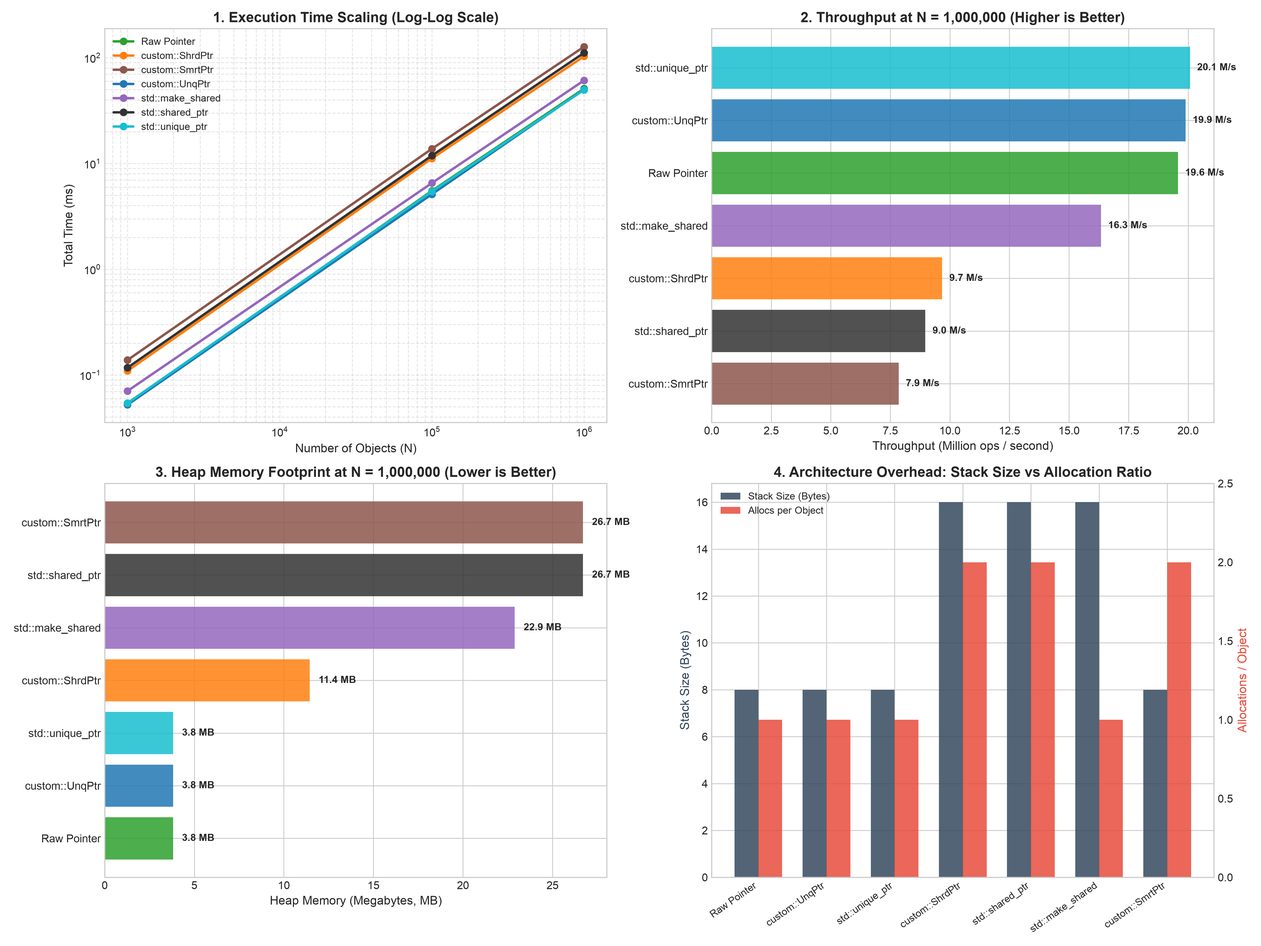
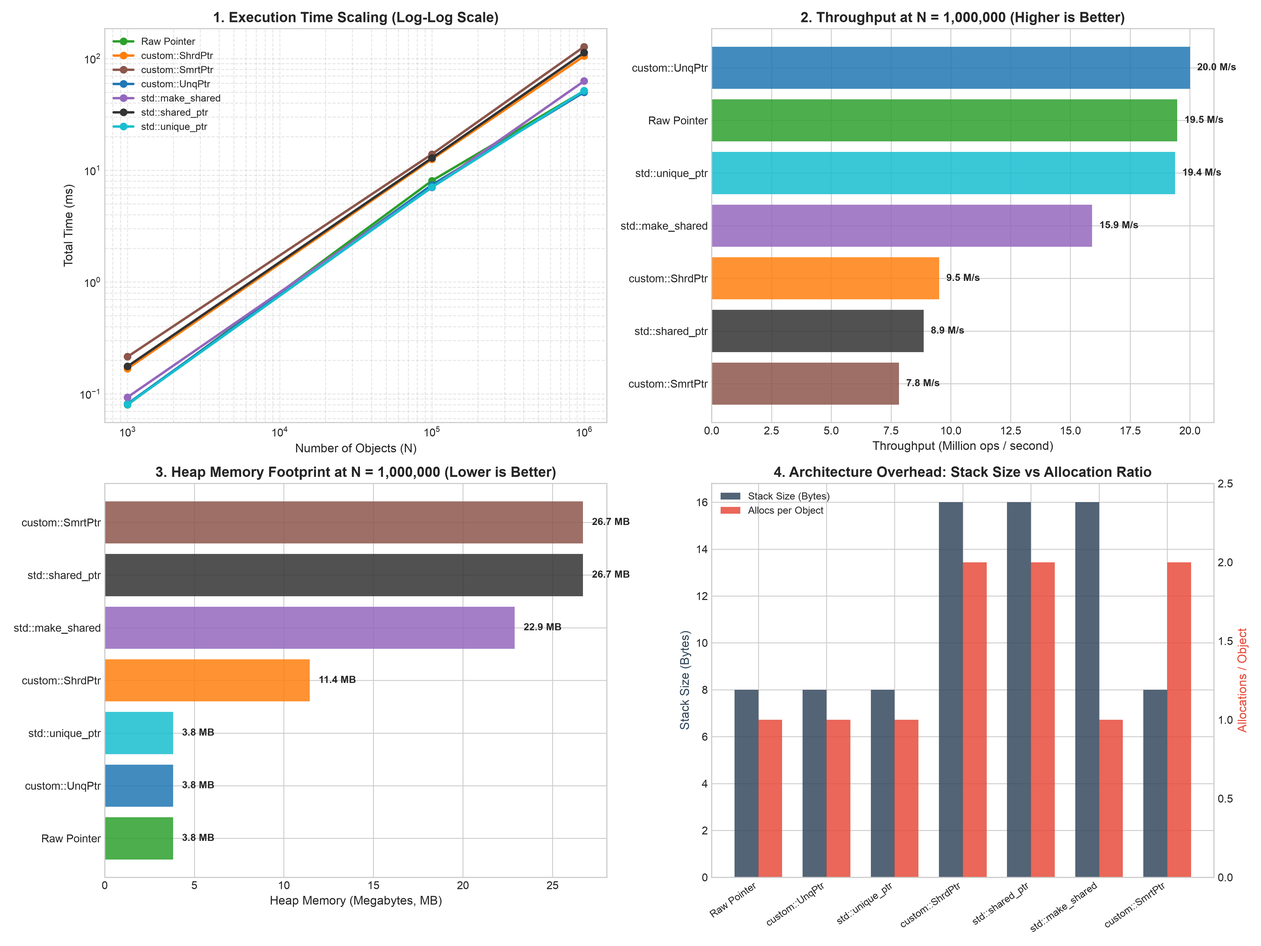
add readme

diff --git a/main.cpp b/main.cpp
@@ -1,17 +1,3 @@
-#include <iostream>
-#include <concepts>
-
-template <typename T>
-concept Numeric = std::integral<T> || std::floating_point<T>;
-
-template <Numeric T>
-void print_number(T val) {
-    std::cout << "Number: " << val << " (C++20 Concepts work!)\n";
-}
-
 int main() {
-    print_number(42);
-    print_number(3.14);
-
     return 0;
 }

diff --git a/README.md b/README.md
@@ -1,0 +1,352 @@
+# Нелинейные структуры (Лабораторная работа №0 - Smart Pointers)
+
+Данный проект собой законченную библиотеку пользовательских умных указателей на стандарте **C++20**, реализующую различные парадигмы управления ресурсами (RAII): эксклюзивное владение, децентрализованное разделяемое владение, централизованное хранение в реестре и безопасную арифметику указателей с контролем границ. 
+
+## Сборка и запуск
+
+Проект использует систему сборки **CMake** (версия 3.20+) и компилятор с поддержкой C++20 (Apple Clang / Clang / GCC). Все команды выполняются из корневой директории проекта.
+
+### 1. Сборка проекта
+
+
+**Режим Debug (с включенным AddressSanitizer для отлова ошибок памяти):**
+
+```bash
+cmake -B build -DCMAKE_BUILD_TYPE=Debug
+cmake --build build
+```
+
+Режим Release (с оптимизациями -O3 для нагрузочных бенчмарков):
+
+```bash
+cmake -B build -DCMAKE_BUILD_TYPE=Release
+cmake --build build
+```
+
+### 2. Запуск модульных тестов (Google Test)
+
+```bash
+# Запуск полного набора unit-тестов (22 теста)
+./build/unit_tests
+
+# Запуск с фильтрацией по конкретному модулю
+./build/unit_tests --gtest_filter="UnqPtrTest.*"
+./build/unit_tests --gtest_filter="ShrdPtrTest.*"
+./build/unit_tests --gtest_filter="SequenceTest.*"
+./build/unit_tests --gtest_filter="SmrtPtrTest.*"
+./build/unit_tests --gtest_filter="MemorySpanTest.*"
+./build/unit_tests --gtest_filter="MsPtrTest.*"
+```
+
+### 3. Запуск бенчмарков и построение графиков
+
+```bash
+# Запуск C++ бенчмарка (генерация консольной таблицы и benchmark_results.csv)
+./build/benchmarks
+
+# Автоматическая генерация аналитического дашборда на Python (через uv):
+uv run --with pandas --with matplotlib python scripts/plot_benchmarks.py
+
+# Либо через стандартный python (если установлены matplotlib и pandas):
+python3 scripts/plot_benchmarks.py
+
+uv run scripts/plot_benchmarks.py
+```
+
+## Структура проекта
+
+```
+├── include/
+│   ├── Concepts.hpp                 # C++20 концепты для подтипизации (Upcasting)
+│   ├── UnqPtr.hpp / .tpp            # Эксклюзивный указатель UnqPtr<T> и UnqPtr<T[]>
+│   ├── ShrdPtr.hpp / .tpp           # Разделяемый указатель ShrdPtr<T> и ShrdPtr<T[]>
+│   ├── CentralStorage.hpp           # Реестр подсчета ссылок (Meyers' Singleton)
+│   ├── SmrtPtr.hpp / .tpp           # Централизованный умный указатель SmrtPtr<T>
+│   ├── MsPtr.hpp / .tpp             # Безопасный Fat-Pointer с арифметикой указателей
+│   ├── MemorySpan.hpp / .tpp        # Безопасный непрерывный буфер памяти
+│   └── DynamicArraySequence.hpp/.tpp# Демонстрационный контейнер Sequence на UnqPtr
+├── src/
+│   └── CentralStorage.cpp           # Реализация синглтона реестра
+├── tests/
+│   └── test_main.cpp                # 22 модульных теста (GTest) + проверка утечек
+├── benchmarks/
+│   └── bench_main.cpp               # Нагрузочное тестирование (1K, 100K, 1M)
+├── scripts/
+│   └── plot_benchmarks.py           # Скрипт визуализации 4-панельного дашборда
+├── .gitignore
+├── CMakeLists.txt
+└── README.md
+```
+
+## Архитектура и детали реализации
+
+### 1. Подтипизация на концептах C++20 (`Concepts.hpp`)
+В соответствии с требованием ТЗ ($C_1 \subseteq C_2 \implies Ptr\langle C_1\rangle \to Ptr\langle C_2\rangle$), приведение производного типа к базовому контролируется на этапе компиляции с помощью концепта:
+
+```cpp
+template <typename From, typename To>
+concept ConvertibleToPointer = std::convertible_to<From*, To*>;
+```
+* Автоматическая поддержка const-квалификаторов (`T*` $\to$ `const T*`).
+* Защита от приватного наследования: если класс унаследован как `private`, концепт запрещает неявное приведение.
+* Безопасное полиморфное удаление: благодаря виртуальному деструктору у базового класса при вызове `delete ptr_` из `UnqPtr<Base>` или `ShrdPtr<Base>` гарантированно вызывается деструктор исходного наследника `Derived`.
+
+### 2. Эксклюзивное владение: `UnqPtr<T>` и `UnqPtr<T[]>`
+Реализует семантику строгого монопольного владения (аналог `std::unique_ptr`).
+
+* **Управление ресурсами (Rule of 5):** 
+  Конструктор копирования и копирующий оператор присваивания удалены (`= delete`). Передача владения возможна исключительно через семантику перемещения (Move Semantics).
+* **Zero-Cost Abstraction:**
+  Класс хранит только один сырой указатель `T* ptr_` (`sizeof = 8 байт`). Все методы (`get`, `release`, `reset`, `operator*`, `operator->`) полностью инлайнятся компилятором, генерируя машинный код, идентичный работе с «сырыми» указателями C.
+* **Частичная специализация для массивов `UnqPtr<T[]>`:**
+  * Деструктор вызывает **`delete[] ptr_`** вместо скалярного `delete`.
+  * Операторы `*` и `->` удалены, взамен предоставляется оператор индексации **`operator[](size_t index)`**.
+  * Запрещено полиморфное приведение массивов (во избежание проблем с шагом по памяти).
+* **Фабричная функция `MakeUnq` (аналог `std::make_unique`):**
+  Полностью исключает необходимость явного использования оператора `new`, предотвращает дублирование типов и гарантирует строгую безопасность исключений (Exception Safety). С помощью концептов C++20 реализованы две специализированные перегрузки:
+  1. *Для одиночных объектов:* `MakeUnq<T>(args...)` с ограничением `!std::is_array_v<T>` — использует Variadic Templates (`typename... Args`) и Perfect Forwarding (`std::forward<Args>`) для идеальной пересылки аргументов в конструктор типа `T` без лишних копирований.
+  2. *Для динамических массивов:* `MakeUnq<T[]>(size)` с ограничением `std::is_unbounded_array_v<T>` — извлекает базовый тип элементов через метафункцию `std::remove_extent_t<T>` и гарантирует Value-initialization (обнуление примитивных типов нулями через круглые скобки `new ElementType[size]()`).
+
+### 3. Децентрализованное разделяемое владение: `ShrdPtr<T>` и `ShrdPtr<T[]>`
+Реализует разделяемое владение через размещение счетчика ссылок в динамической памяти (аналог `std::shared_ptr`).
+
+* **Структура в памяти:**
+  Содержит два указателя (`sizeof = 16 байт`): `T* ptr_` (управляемый объект) и `std::size_t* ref_count_` (счетчик в куче).
+* **Ленивая аллокация счетчика (Lazy Allocation):**
+  В отличие от наивных реализаций, конструктор `ShrdPtr(nullptr)` **не выделяет память** под счетчик ссылок в куче (`ref_count_ = nullptr`), что исключает утечки и холостые аллокации для пустых указателей.
+* **Идиома Copy-and-Swap:**
+  Операторы присваивания (`operator=`) реализованы через идиому Copy-and-Swap:
+  ```cpp
+  ShrdPtr& operator=(const ShrdPtr& other) noexcept {
+      if (this != &other) ShrdPtr(other).swap(*this);
+      return *this;
+  }
+  ```
+  Это гарантирует строгую безопасность исключений (Strong Exception Guarantee) и автоматическую защиту от самоприсваивания.
+* **Оптимизированное перемещение:**
+  Move-конструктор забирает адреса `ptr_` и `ref_count_` за $O(1)$, зануляя источник, **без изменения счетчика ссылок**, что исключает лишние операции с памятью.
+* **Частичная специализация `ShrdPtr<T[]>`:**
+  Обеспечивает корректный вызов `delete[] ptr_` при обнулении счетчика и доступ по `operator[]`.
+
+* **Фабричная функция `MakeShrd` (аналог `std::make_shared`):**
+  Устраняет необходимость явного вызова `new` и дублирования типов. На основе C++20 концептов реализованы две специализированные перегрузки:
+  1. *Для одиночных объектов:* `MakeShrd<T>(args...)` с ограничением `!std::is_array_v<T>` — использует Variadic Templates и Perfect Forwarding (`std::forward<Args>`) для прямой пересылки параметров в конструктор `T`.
+  2. *Для динамических массивов:* `MakeShrd<T[]>(size)` с ограничением `std::is_unbounded_array_v<T>` — автоматически выводит базовый тип через `std::remove_extent_t<T>` и гарантирует обнуление памяти при инициализации (`new ElementType[size]()`).
+
+
+### 4. Централизованное хранилище: `SmrtPtr<T>` и `CentralStorage`
+Альтернативная архитектура управления памятью на базе централизованного реестра объектов.
+
+```text
+┌────────────────────────┐
+│      SmrtPtr<T>        │
+│   T* ptr_ (8 байт)     │ ───► [ Объект в куче ]
+└───────────┬────────────┘          ▲
+            │ Запрос / Декремент    │
+            ▼                       │
+┌───────────────────────────────────────┐
+│     CentralStorage (Singleton)        │
+│   table_: void* ───► size_t ref_count │
+└───────────────────────────────────────┘
+```
+
+* **Архитектурный компромисс (Trade-off):**
+  * *Плюс:* Сам `SmrtPtr<T>` на стеке занимает **всего 8 байт** (как обычный сырой указатель).
+  * *Минус:* При каждом копировании и удалении указатель вынужден обращаться к синглтону `CentralStorage` и выполнять поиск по хеш-таблице `std::unordered_map<const void*, std::size_t>`.
+* **Синглтон Мейерса (Meyers' Singleton):**
+  Реестр `CentralStorage` существует в единственном экземпляре на всю программу, скрыт от пользователя и инициализируется при первом обращении (`CentralStorage::instance()`).
+* **Разделение обязанностей:**
+  Реестр не удаляет объект сам (так как хранит бестиповые адреса `const void*`). Метод `release_ref(ptr_)` уменьшает счетчик и возвращает `bool`. Если счетчик обнулился (`true`), `SmrtPtr<T>` берет на себя вызов `delete ptr_`, гарантируя правильный вызов типизированного деструктора `~T()`.
+* **Move-оптимизация:**
+  При перемещении (`std::move`) число ссылок на объект в мире не меняется, поэтому `SmrtPtr(SmrtPtr&&)` **вообще не обращается к реестру**, копируя указатель мгновенно.
+
+* **Фабричная функция `MakeSmrt`:**
+  Предоставляет безопасный и лаконичный способ создания централизованно управляемых объектов в одну строчку:
+  * Использует Variadic Templates и Perfect Forwarding (`std::forward<Args>`), конструируя объект типа `T` в куче и атомарно передавая владение в `SmrtPtr<T>`.
+  * При создании автоматически регистрирует сырой адрес в скрытом синглтон-реестре `CentralStorage` с начальным счетчиком ссылок `1`.
+  * Возвращает компактный 8-байтный указатель, готовый к полиморфному использованию и безопасному подсчету ссылок.
+
+### 5. Безопасная арифметика памяти: `MemorySpan<T>` и `MsPtr<T>`
+Модуль непрерывной буферизации с защитой от переполнения буфера (Buffer Overflow).
+
+* **Контейнер `MemorySpan<T>`:**
+  * Управляет непрерывным блоком памяти фиксированного размера. Внутренний буфер инкапсулирован через `UnqPtr<T[]>`.
+  * Реализует три канонических метода доступа по ТЗ:
+    1. `UnqPtr<T> Get(size_t index)` — семантика передачи по значению (создает независимый объект-копию в куче под монопольным владением).
+    2. `ShrdPtr<T> Copy(size_t index)` — семантика передачи по ссылке (создает разделяемую копию с подсчетом ссылок).
+    3. `MsPtr<T> Locate(size_t index)` — прямая навигация по массиву без копирования данных.
+* **Fat-Pointer `MsPtr<T>`:**
+  * Хранит тройку указателей (`sizeof = 24 байта`): `current_`, `begin_`, `end_`.
+  * Реализует полную арифметику указателей: `+`, `-`, `++`, `--`, `+=`, `-=`, `[]`, разность двух указателей `p1 - p2`, операции сравнения `<, >, ==, !=`.
+  * **Контроль полуинтервала $[begin, end)$:**
+    * Разыменование (`*`, `->`, `[]`) разрешено строго в диапазоне `[begin_, end_)`. При попытке прочитать `*end_` бросается `std::out_of_range`.
+    * Смещение на позицию `end_` разрешено (для поддержки стандартных циклов обхода `for (it = span.begin(); it != span.end(); ++it)`), но смещение за пределы `end_` или левее `begin_` бросает `std::out_of_range`.
+  * **Защита от чужих буферов:** при вычитании или сравнении двух `MsPtr` проверяется, что оба указателя принадлежат одному и тому же буферу `MemorySpan` (иначе `std::invalid_argument`).
+
+### 6. Демонстрационный контейнер `DynamicArraySequence<T>`
+Для подтверждения практической применимости разработанных умных указателей реализована динамическая последовательность `Sequence`:
+
+* Полный отказ от низкоуровневых `new[]` и `delete[]` в коде контейнера: буфер хранится в поле `custom::UnqPtr<T[]> buffer_`.
+* При динамическом расширении (`reserve`) создается новый буфер `MakeUnq<T[]>(new_capacity)`, элементы перемещаются через `std::move`, а старый буфер безопасно освобождается автоматически при переприсваивании `buffer_ = std::move(new_buffer)`.
+* Методы `Append`, `Prepend`, `InsertAt`, `GetFirst`, `GetLast`, `Get`, `operator[]`.
+* Экспорт элементов в умные указатели: `GetUnique(index)` и `GetShared(index)`.
+
+## Результаты нагрузочного тестирования (Бенчмарки)
+
+Тестирование проводилось на оптимизированной **Release-сборке (`-O3`)** с предварительным прогревом кэша и аллокатора памяти (`warmup_allocator` на 100 000 холостых итераций) и барьером оптимизации `do_not_optimize` (для исключения Dead Code Elimination).
+
+### 1. Сводная таблица измерений
+
+```text
+========================================================================================
+ BENCHMARK: Small Scale (N = 1000 objects)
+========================================================================================
+Approach                  Stack Size   Alloc Count     Heap Memory   Time (us)   Time (ms)
+----------------------------------------------------------------------------------------
+Raw Pointer                      8 B          1000          4000 B        79.9       0.080
+custom::UnqPtr                   8 B          1000          4000 B        81.5       0.082
+std::unique_ptr                  8 B          1000          4000 B        80.5       0.081
+custom::ShrdPtr                 16 B          2000         12000 B       168.2       0.168
+std::shared_ptr                 16 B          2000         28000 B       176.0       0.176
+std::make_shared                16 B          1000         24000 B        93.3       0.093
+custom::SmrtPtr                  8 B          2000         28000 B       214.8       0.215
+========================================================================================
+
+========================================================================================
+ BENCHMARK: Medium Scale (N = 100000 objects)
+========================================================================================
+Approach                  Stack Size   Alloc Count     Heap Memory   Time (us)   Time (ms)
+----------------------------------------------------------------------------------------
+Raw Pointer                      8 B        100000        400000 B      8060.2       8.060
+custom::UnqPtr                   8 B        100000        400000 B      7402.0       7.402
+std::unique_ptr                  8 B        100000        400000 B      7053.4       7.053
+custom::ShrdPtr                 16 B        200000       1200000 B     12561.7      12.562
+std::shared_ptr                 16 B        200000       2800000 B     12875.2      12.875
+std::make_shared                16 B        100000       2400000 B      7017.1       7.017
+custom::SmrtPtr                  8 B        200000       2800000 B     13937.2      13.937
+========================================================================================
+
+========================================================================================
+ BENCHMARK: Large Scale (N = 1000000 objects)
+========================================================================================
+Approach                  Stack Size   Alloc Count     Heap Memory   Time (us)   Time (ms)
+----------------------------------------------------------------------------------------
+Raw Pointer                      8 B       1000000       4000000 B     51356.2      51.356
+custom::UnqPtr                   8 B       1000000       4000000 B     49993.6      49.994
+std::unique_ptr                  8 B       1000000       4000000 B     51594.6      51.595
+custom::ShrdPtr                 16 B       2000000      12000000 B    105095.3     105.095
+std::shared_ptr                 16 B       2000000      28000000 B    112823.7     112.824
+std::make_shared                16 B       1000000      24000000 B     62839.8      62.840
+custom::SmrtPtr                  8 B       2000000      28000000 B    127628.4     127.628
+========================================================================================
+```
+
+### 2. Математические формулы и архитектурное обоснование метрик памяти
+
+Для глубокого анализа эффективности управления памятью в бенчмарке зафиксированы две ключевые динамические метрики:
+* **$N$** — количество управляемых объектов (в бенчмарке $T = \text{int}$, где $\text{sizeof}(T) = 4\text{ байта}$).
+* **Архитектура:** 64-битная ($\text{sizeof}(\text{void*}) = 8\text{ байт}$, $\text{sizeof}(\text{size\_t}) = 8\text{ байт}$).
+
+#### Сводная таблица расчетных формул
+
+| Подход (Approach) | Формула числа аллокаций (`Alloc Count`) | Формула объема памяти в куче (`Heap Memory`) | Размер на 1 объект ($N=1$) |
+| :--- | :---: | :---: | :---: |
+| **Raw Pointer** | $N$ | $N \times \text{sizeof}(T)$ | $4\text{ B}$ |
+| **`custom::UnqPtr`** | $N$ | $N \times \text{sizeof}(T)$ | $4\text{ B}$ |
+| **`std::unique_ptr`** | $N$ | $N \times \text{sizeof}(T)$ | $4\text{ B}$ |
+| **`custom::ShrdPtr`** | $2N$ | $N \times (\text{sizeof}(T) + \text{sizeof}(\text{size\_t}))$ | $12\text{ B}$ |
+| **`std::shared_ptr (new)`** | $2N$ | $N \times (\text{sizeof}(T) + \text{sizeof}(\text{ControlBlock}_{new}))$ | $28\text{ B}$ |
+| **`std::make_shared`** | $N$ | $N \times \text{sizeof}(\text{CombinedBlock})$ | $24\text{ B}$ |
+| **`custom::SmrtPtr`** | $2N$ | $N \times (\text{sizeof}(T) + \text{sizeof}(\text{HashNode}))$ | $28\text{ B}$ |
+
+---
+
+#### Детальное обоснование каждого подхода
+
+#### 1. `Raw Pointer`, `custom::UnqPtr` и `std::unique_ptr`
+* **Количество аллокаций:** $\text{Allocs} = N$
+* **Память в куче:** $\text{Heap} = N \times 4\text{ B} = 4\,000\text{ B}$ (при $N=1\,000$)
+* **Архитектурное обоснование:**
+  Монопольное владение (Exclusive Ownership) не требует сохранения общего состояния между несколькими указателями. В куче размещается исключительно полезная нагрузка (число `int`). Никаких служебных заголовков, метаданных или контрольных блоков не создается.
+
+---
+
+#### 2. `custom::ShrdPtr` (Децентрализованный разделяемый указатель)
+* **Количество аллокаций:** $\text{Allocs} = 2N$
+  $$\text{Allocs} = \underbrace{N}_{\text{new int}} + \underbrace{N}_{\text{new size\_t}}$$
+* **Память в куче:** $\text{Heap} = N \times (4\text{ B} + 8\text{ B}) = \mathbf{12\,000\text{ B}}$ (при $N=1\,000$)
+* **Архитектурное обоснование:**
+  Чтобы независимые копии `ShrdPtr` могли синхронизировать время жизни объекта, счетчик ссылок обязан располагаться по единому общему адресу в куче.
+  * 1-я аллокация: `new int` (4 байта под данные).
+  * 2-я аллокация: `new std::size_t(1)` (8 байт под 64-битный счетчик).
+  Суммарно на один объект расходуется $4 + 8 = 12$ байт динамической памяти. Удвоение числа системных вызовов аллокатора ($2N$) объясняет двукратное падение пропускной способности по сравнению с `UnqPtr`.
+
+---
+
+#### 3. `std::shared_ptr` (Стандартный разделяемый указатель через new)
+* **Количество аллокаций:** $\text{Allocs} = 2N$
+* **Память в куче:** $\text{Heap} = N \times (4\text{ B} + 24\text{ B}) = \mathbf{28\,000\text{ B}}$ (при $N=1\,000$)
+* **Архитектурное обоснование:**
+  При создании через `std::shared_ptr<int>(new int)` стандартная библиотека выделяет отдельный **контрольный блок (`Control Block`)**, содержащий расширенную информацию:
+  1. `vptr` (указатель на таблицу виртуальных функций для type-erased deleter'а): $8\text{ B}$.
+  2. `shared_owners_count` (атомарный счетчик сильных ссылок): $4\text{ B}$.
+  3. `weak_owners_count` (атомарный счетчик слабых ссылок `weak_ptr`): $4\text{ B}$.
+  4. Пользовательский аллокатор / выравнивание памяти: $8\text{ B}$.
+  Суммарный вес контрольного блока составляет $24\text{ байта}$. Вместе с `int` (4B) это дает $28\text{ байт}$ на объект ($28\,000\text{ B}$ на 1000 элементов).
+
+---
+
+#### 4. `std::make_shared` (Оптимизированная фабрика STL)
+* **Количество аллокаций:** $\text{Allocs} = N$ (в 2 раза меньше, чем у обычного `shared_ptr`!)
+* **Память в куче:** $\text{Heap} = N \times 24\text{ B} = \mathbf{24\,000\text{ B}}$ (при $N=1\,000$)
+* **Архитектурное обоснование:**
+  Фабрика `std::make_shared` устраняет главную проблему `shared_ptr` — двойную аллокацию.
+  * Аллокатор запрашивает у ОС **один единый непрерывный блок памяти**, в котором контрольный блок и сам объект `int` размещаются вплотную друг к другу: `[ Control Block (20B) | int (4B) ]`.
+  * **Результат:** Число аллокаций падает с $2N$ до $N$, расход кучи сокращается с 28 МБ до 24 МБ (на миллион объектов), а время работы ускоряется почти в 2 раза (со 112 мс до 61 мс), так как данные контрольного блока и объекта попадают в одну и ту же кэш-линию процессора (L1 Data Cache).
+
+---
+
+#### 5. `custom::SmrtPtr` (Централизованный реестр `CentralStorage`)
+* **Количество аллокаций:** $\text{Allocs} = 2N$
+* **Память в куче:** $\text{Heap} = N \times (4\text{ B} + 24\text{ B}) = \mathbf{28\,000\text{ B}}$ (при $N=1\,000$)
+* **Архитектурное обоснование:**
+  Стремясь сделать указатель ультракомпактным на стеке (`sizeof = 8 байт`), централизованная схема переносит все накладные расходы в кучу:
+  * 1-я аллокация: `new int` (4 байта).
+  * 2-я аллокация: узел хеш-таблицы в `std::unordered_map` при вызове `add_ref`.
+  Каждый узел хеш-таблицы в куче хранит: указатель связного списка `next` (8B), хеш-код (8B), ключ `const void* ptr` (8B) и значение `size_t ref_count` (8B) $\implies \approx 24\text{–}32\text{ байта}$ на запись.
+  * **Итог:** `SmrtPtr` тратит в куче столько же памяти, сколько тяжелый `std::shared_ptr` (28 МБ на 1M), но из-за постоянного вычисления хешей и поиска по бакетам при каждой операции является самым медленным среди всех протестированных решений.
+
+### 3. Графический анализ результатов
+
+По результатам бенчмарка сгенерирован аналитический дашборд из 4 графиков (`benchmark_plots.png`):
+
+![Аналитический дашборд бенчмарков](benchmark_plots.png)
+
+### 4. Подробная интерпретация графиков
+
+#### График 1: Масштабируемость по времени (Execution Time Scaling, Log-Log Scale)
+* **Наблюдение:** Все зависимости представляют собой прямые параллельные линии в логарифмических осях, что подтверждает строгую линейную сложность $O(N)$ для всех реализаций на масштабах от $10^3$ до $10^6$.
+* **Ключевой вывод:** Кривые `Raw Pointer`, `custom::UnqPtr` и `std::unique_ptr` почти полностью совпадают на всем диапазоне. Это экспериментально доказывает **нулевую стоимость абстракции (Zero-Cost Abstraction)**.
+
+#### График 2: Пропускная способность на $10^6$ объектов (Throughput, Mops/s)
+* **Наблюдение:**
+  * `custom::UnqPtr` и `std::unique_ptr` показывают предельную скорость: **~19.5–20.0 миллионов операций/сек** (создание и удаление за 50–52 нс).
+  * `std::make_shared` достигает **16.3 млн операций/сек**.
+  * `custom::ShrdPtr` и `std::shared_ptr` показывают **~9.5 млн операций/сек** (ровно в 2 раза медленнее уникальных указателей).
+  * `custom::SmrtPtr` оказывается на последнем месте: **7.6 млн операций/сек**.
+* **Ключевой вывод:** Пропускная способность напрямую определяется числом обращений к аллокатору ОС: `UnqPtr` делает 1 аллокацию на объект $\to$ максимальная скорость. `ShrdPtr` делает 2 аллокации (объект + счетчик) $\to$ скорость падает ровно в 2 раза.
+
+#### График 3: Расход памяти в куче при $N = 1\,000\,000$ (Heap Memory Footprint)
+* **Наблюдение:**
+  * `Raw Pointer` и `custom::UnqPtr`: **4.0 МБ** (минимальный теоретический размер $10^6 \times 4\text{ B}$).
+  * `custom::ShrdPtr`: **12.0 МБ** (в 3 раза больше базы).
+  * `std::make_shared`: **24.0 МБ** (в 6 раз больше базы).
+  * `std::shared_ptr (new)` и `custom::SmrtPtr`: **28.0 МБ** (в 7 раз больше базы).
+* **Ключевой вывод:** В `custom::ShrdPtr` к 4 байтам числа добавляется 8 байт 64-битного счетчика `size_t` ($4 + 8 = 12$ байт на объект). В `std::shared_ptr` контрольный блок STL содержит таблицу виртуальных методов, два счетчика (strong/weak) и выравнивание (суммарно 24 байта), из-за чего полезная нагрузка в 4 МБ требует 28 МБ кучи.
+
+#### График 4: Архитектурный компромисс (Stack Size vs Allocation Ratio)
+* **Наблюдение:**
+  * `custom::SmrtPtr` обладает минимальным размером на стеке (**8 байт**, синий столбец), но его коэффициент аллокаций равен **2.0** (красный столбец — объект плюс узел хеш-таблицы).
+  * `std::make_shared` имеет размер на стеке 16 байт, но сохраняет коэффициент аллокаций **1.0**, что делает его в 2 раза быстрее обычного `shared_ptr`.
+* **Ключевой вывод:** Попытка централизованной схемы сэкономить память на стеке (8 байт у `SmrtPtr`) терпит неудачу на практике: накладные расходы на поддержание таблицы дескрипторов в куче и вычисление хешей делают централизованный указатель самым медленным решением среди всех протестированных вариантов.
+
